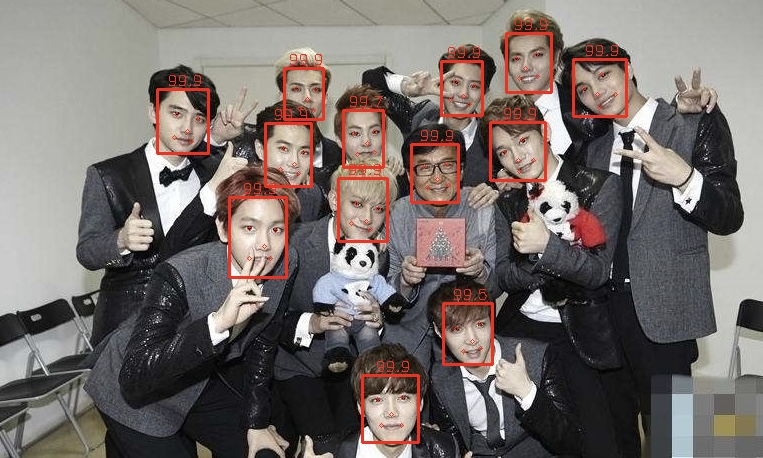
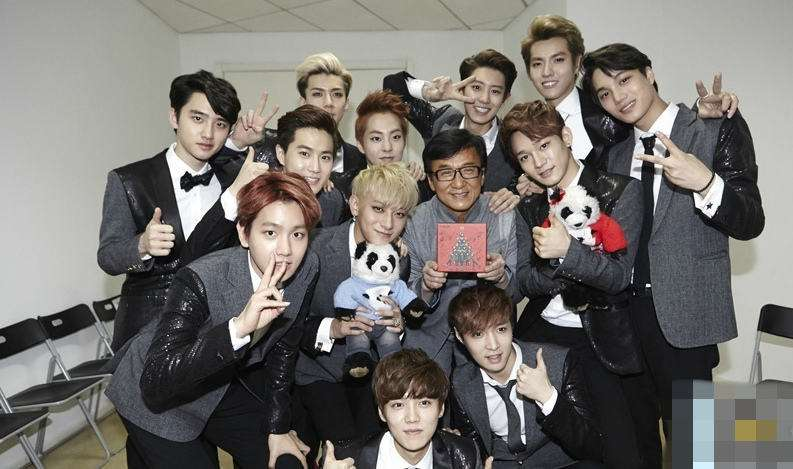
add code to process min overlap problem

diff --git a/MyDetectFace.py b/MyDetectFace.py
@@ -292,8 +292,48 @@ def MyMtcnnNet(sess):
         boxes = tf.gather(pick_boxes3, nms_inds3, name='boxes')
         pointsXY = tf.gather(pointsXY, nms_inds3, name='points')
         load_np(os.path.join(model_path, 'det3.npy'), sess)
+        box_ind = get_minIou_tf(boxes)
+        boxes = tf.gather(boxes, box_ind)
+        pointsXY = tf.gather(pointsXY, box_ind)
 
     return [boxes, pointsXY], image_data
+
+
+def get_minIou_tf(boxes):
+    box_len = tf.shape(boxes)[0]
+    x1 = tf.reshape(boxes[:, 0], [1, -1])
+    y1 = tf.reshape(boxes[:, 1], [1, -1])
+    x2 = tf.reshape(boxes[:, 2], [1, -1])
+    y2 = tf.reshape(boxes[:, 3], [1, -1])
+    x1t = tf.reshape(boxes[:, 0], [-1, 1])
+    y1t = tf.reshape(boxes[:, 1], [-1, 1])
+    x2t = tf.reshape(boxes[:, 2], [-1, 1])
+    y2t = tf.reshape(boxes[:, 3], [-1, 1])
+    x1 = tf.tile(x1, [box_len, 1])
+    x1t = tf.tile(x1t, [1, box_len])
+    x1Mat = tf.where(x1>x1t, x1, x1t)
+    y1 = tf.tile(y1, [box_len, 1])
+    y1t = tf.tile(y1t, [1, box_len])
+    y1Mat = tf.where(y1>y1t, y1, y1t)
+    x2 = tf.tile(x2, [box_len, 1])
+    x2t = tf.tile(x2t, [1, box_len])
+    x2Mat = tf.where(x2<x2t, x2, x2t)
+    y2 = tf.tile(y2, [box_len, 1])
+    y2t = tf.tile(y2t, [1, box_len])
+    y2Mat = tf.where(y2<y2t, y2, y2t)
+    xMat = x2Mat-x1Mat
+    xMat = tf.where(xMat>0, xMat, tf.zeros(tf.shape(xMat)))
+    yMat = y2Mat-y1Mat
+    yMat = tf.where(yMat>0, yMat, tf.zeros(tf.shape(yMat)))
+    iouMat = xMat*yMat
+    eye = 1-tf.eye(box_len)
+    iouMat = iouMat*eye
+    maxIou = tf.math.reduce_max(iouMat, 1)
+    area = ((x2-x1)*(y2-y1))[0, :]
+    minRate = maxIou/area
+    box_ind = tf.where(minRate<0.7)
+    box_ind = tf.reshape(box_ind, [-1])
+    return box_ind
 
 
 def get_scales(img):
@@ -318,7 +358,7 @@ def build():
     input_node: pnet/input, pnet/scales, pnet/scale_len
     output_node: onet/boxes, onet/points
     '''
-    imgPath = "stars.jpg"
+    imgPath = "C:\\Users\\admin\\Pictures\\f.jpg"
     img = cv2.imread(imgPath, cv2.IMREAD_COLOR)
     img = cv2.cvtColor(img, cv2.COLOR_BGR2RGB)
     scales = get_scales(img)
@@ -326,6 +366,7 @@ def build():
     sess = tf.Session()
     result, image_data1 = MyMtcnnNet(sess)
     boxes, points = sess.run(result, feed_dict={image_data1:img})
+    # print(boxes, boxes.shape)
     # g = tf.get_default_graph().as_graph_def()
     # for n in g.node:
     #     print(n.name)
@@ -344,7 +385,7 @@ def drawFaces(img, boxes, points):
         b2 = int(b[2])
         b3 = int(b[3])
         score = b[4]
-        if score < 0.95:
+        if score < 0.80:
             continue
         mid = (int((b0 + b2) / 2) - 15, int((b1 + b3) / 2)+5)
         top = (int((b0 + b2) / 2) - 15, b1-4)
@@ -355,6 +396,7 @@ def drawFaces(img, boxes, points):
         ptsY = pts[5:]
         for i in range(ptsX.shape[0]):
             cv2.circle(img, (ptsX[i], ptsY[i]), 2, (0,0,255))
+    # img = cv2.resize(img, (int(img.shape[1]*0.6), int(img.shape[0]*0.6)), interpolation=cv2.INTER_AREA)
     cv2.imshow('faces', img)
     return cv2.waitKey(0)
 

diff --git a/MyAlign.py b/MyAlign.py
@@ -98,7 +98,7 @@ def drawFaces(img, boxes, points, savePath):
             cv2.imwrite(os.path.join(savePath, str(i)+'.jpg'), cut)
         for i in range(ptsX.shape[0]):
             cv2.circle(img, (ptsX[i], ptsY[i]), 2, (0,0,255))
-    # cv2.imshow('image', img)
+    cv2.imshow('image', img)
     if len(cuts)>0:
         batch_img = batchShow(cuts)
         cv2.imshow('faces', batch_img)
@@ -180,7 +180,7 @@ def cutFaces(datasetPath, ids, imgs, func):
 
 
 if __name__ == "__main__":
-    imgPath = "C:\\Users\\admin\\Pictures\\f.jpg"
+    imgPath = "stars.jpg"
     savePath = "D:\\workspace\\data\\mtcnn_faces\\99"
     img = cv2.imread(imgPath, cv2.IMREAD_COLOR)
     img_cvt = cv2.cvtColor(img, cv2.COLOR_BGR2RGB)
@@ -189,7 +189,7 @@ if __name__ == "__main__":
     # rot = cv2.warpAffine(img, M, shp)
     nets = loadModel()
     boxes, points=detect(img_cvt, nets)
-    drawFaces(img, boxes, points, savePath)
+    drawFaces(img, boxes, points, None)
     # starsPath = "E:\\BaiduNetdiskDownload\\seeprettyface_chs_stars_original\\seeprettyface_chs_stars_original\\chs_stars_original"
     # datasetPath = "E:\\BaiduNetdiskDownload\\seeprettyface_chs_stars_original\\seeprettyface_chs_stars_original\\chs_stars_faces"
     # ids, imgs = readStars(starsPath)
